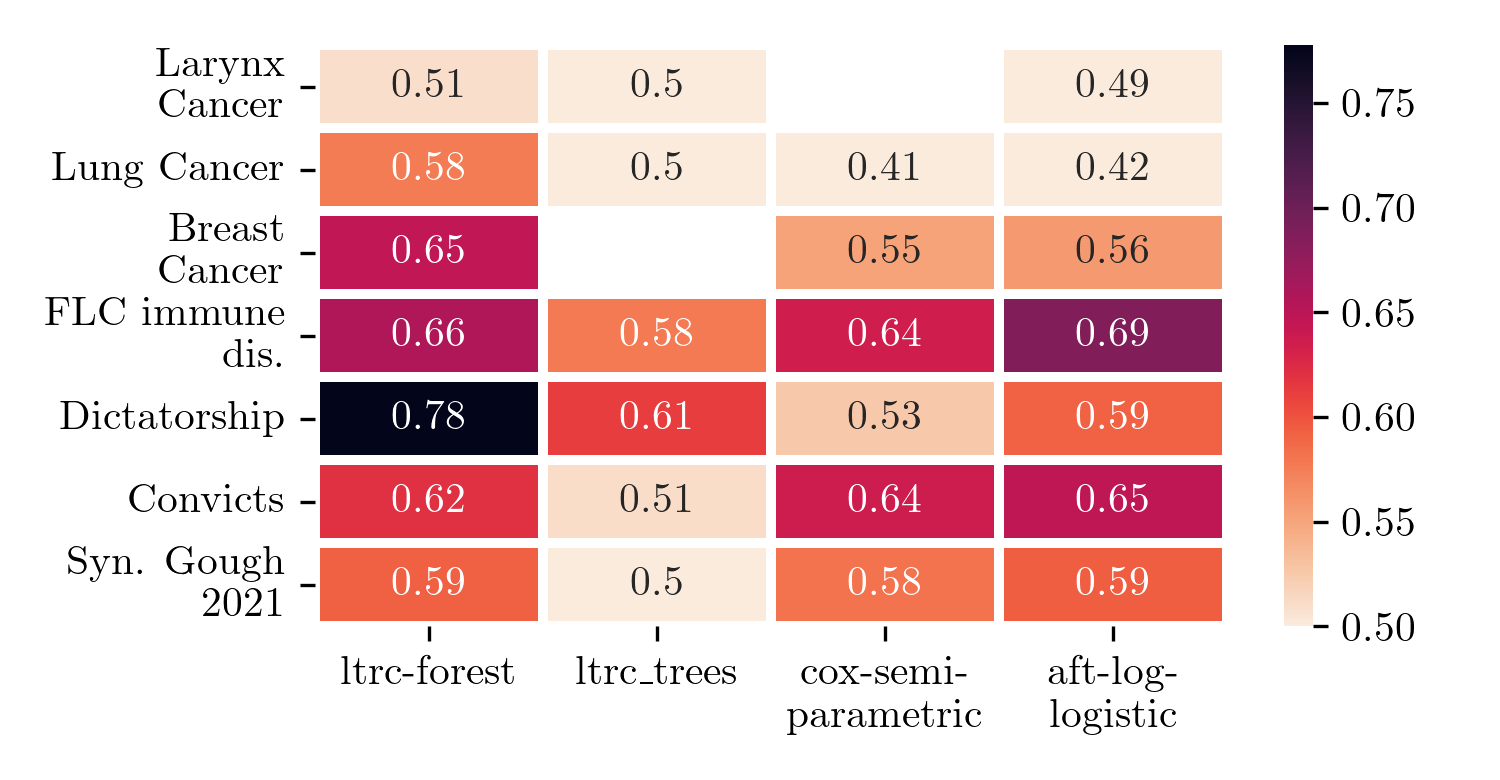
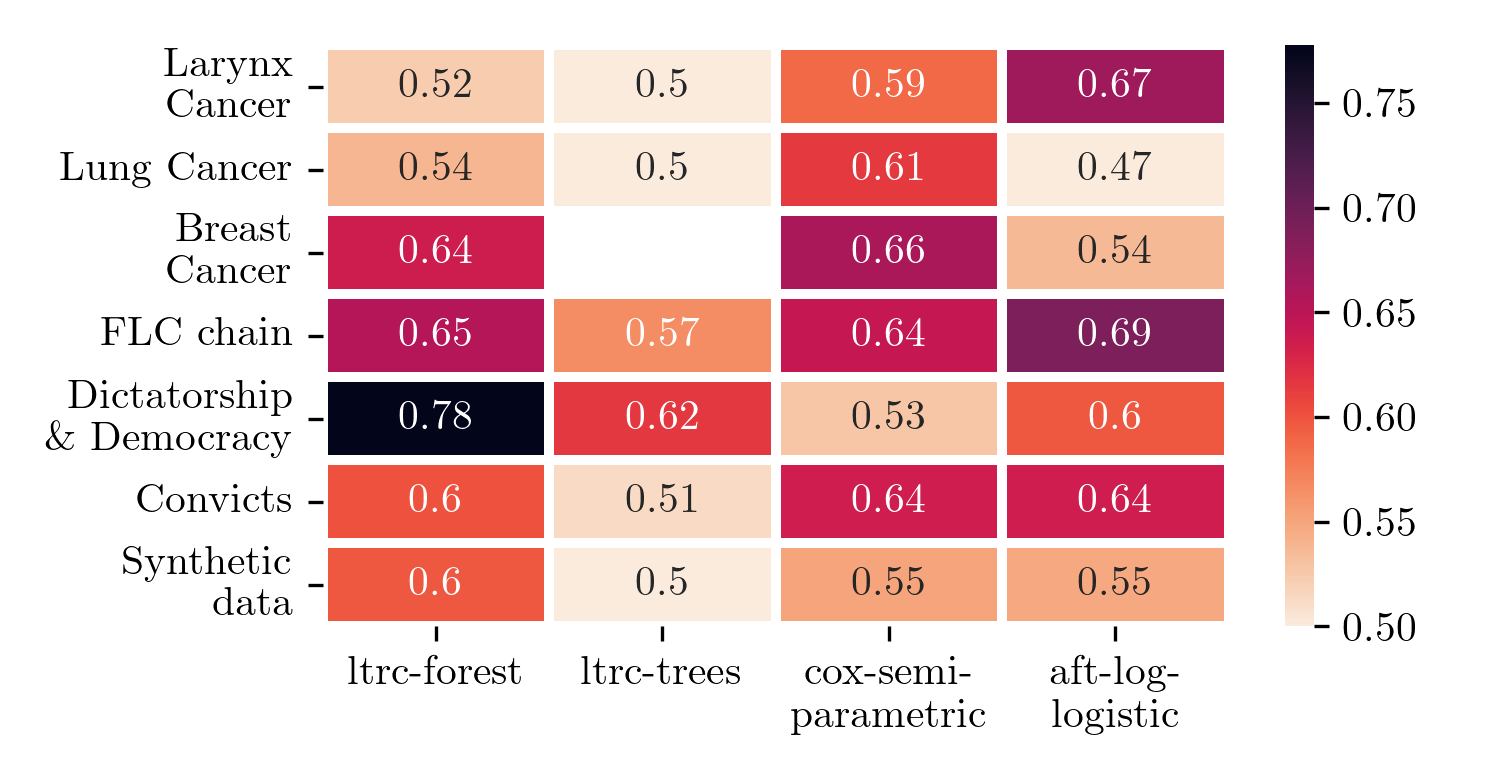
[BUG] Benchmark performance

diff --git a/benchmark/benchmark.py b/benchmark/benchmark.py
@@ -25,7 +25,7 @@ def load_datasets():
     datasets_dict = {}
     # ==========================================================================
     data = datasets.load_larynx()
-    data["entry_date"] = data["age"] * 365.25
+    data["entry_date"] = data["age"]
     data["time"] += data["entry_date"]
     y = data[["entry_date", "time", "death"]]
     X = data.drop(columns=y.columns.tolist())
@@ -66,7 +66,7 @@ def load_datasets():
     y = data[["entry_date", "duration", "observed"]]
     X = data.drop(columns=y.columns.tolist())
     X = X.select_dtypes(include=np.number)
-    datasets_dict["Dictatorship & Democracy"] = X, y
+    datasets_dict["Dictatorship \& Democracy"] = X, y
     # ==========================================================================
     data = datasets.load_rossi()
     data["entry_date"] = 0
@@ -92,8 +92,8 @@ def benchmark(n_exp=2):
             min_impurity_decrease=0.0000001,
             min_samples_leaf=3,
             max_samples=0.89),
-        "ltrc-trees": LTRCTreesFitter(),
-        "cox-semi-parametric": coxph_fitter.SemiParametricPHFitter(),
+        "ltrc-trees": LTRCTreesFitter(min_samples_leaf=5),
+        "cox-semi-parametric": coxph_fitter.SemiParametricPHFitter(penalizer=0.1),
         "aft-log-logistic": log_logistic_aft_fitter.LogLogisticAFTFitter(penalizer=0.1),
     }
     results = {}
@@ -101,9 +101,9 @@ def benchmark(n_exp=2):
         results[j] = pd.DataFrame(index=all_datasets.keys(), columns=models.keys())
         for k, (X, y) in all_datasets.items():
             x_train, x_test, y_train, y_test = train_test_split(
-                X, y, train_size=0.6)
+                X, y, train_size=0.7)
             for i, key in enumerate(models.keys()):
-
+                pass
                 try:
                     models[key].fit(
                         pd.concat((x_train, y_train), axis=1).dropna(),
@@ -126,8 +126,8 @@ def benchmark(n_exp=2):
         all_res = pd.concat((results[res].astype(float), all_res), axis=0)
     all_res.index.name = "dataset"
     all_res.to_csv("benchmark/benchmark_data.csv")
-    mean_ = all_res.reset_index().groupby("dataset").mean(skipna=True).drop(columns=["num_expe"])
-    std_ = all_res.reset_index().groupby("dataset").std(skipna=True).drop(columns=["num_expe"])
+    mean_ = all_res.reset_index().groupby("dataset").mean().drop(columns=["num_expe"])
+    std_ = all_res.reset_index().groupby("dataset").std().drop(columns=["num_expe"])
     return mean_, std_
 
 
@@ -192,7 +192,10 @@ if __name__ == '__main__':
     mean_, _ = benchmark(n_exp=20)
     mean_.to_csv("benchmark/benchmark.csv")
 
-    mean_ = pd.read_csv("benchmark/benchmark.csv", index_col="dataset")
+    all_res = pd.read_csv("benchmark/benchmark_data.csv", index_col="dataset")
+    mean_ = all_res.reset_index().groupby("dataset").mean().drop(columns=["num_expe"])
+    std_ = all_res.reset_index().groupby("dataset").std().drop(columns=["num_expe"])
+
     mean_ = mean_.loc[data_names]
     f, ax = plot.subplots(figsize=(5, 2.6), dpi=300)
     sns.heatmap(mean_.astype(float), annot=True, linewidths=2, ax=ax,
